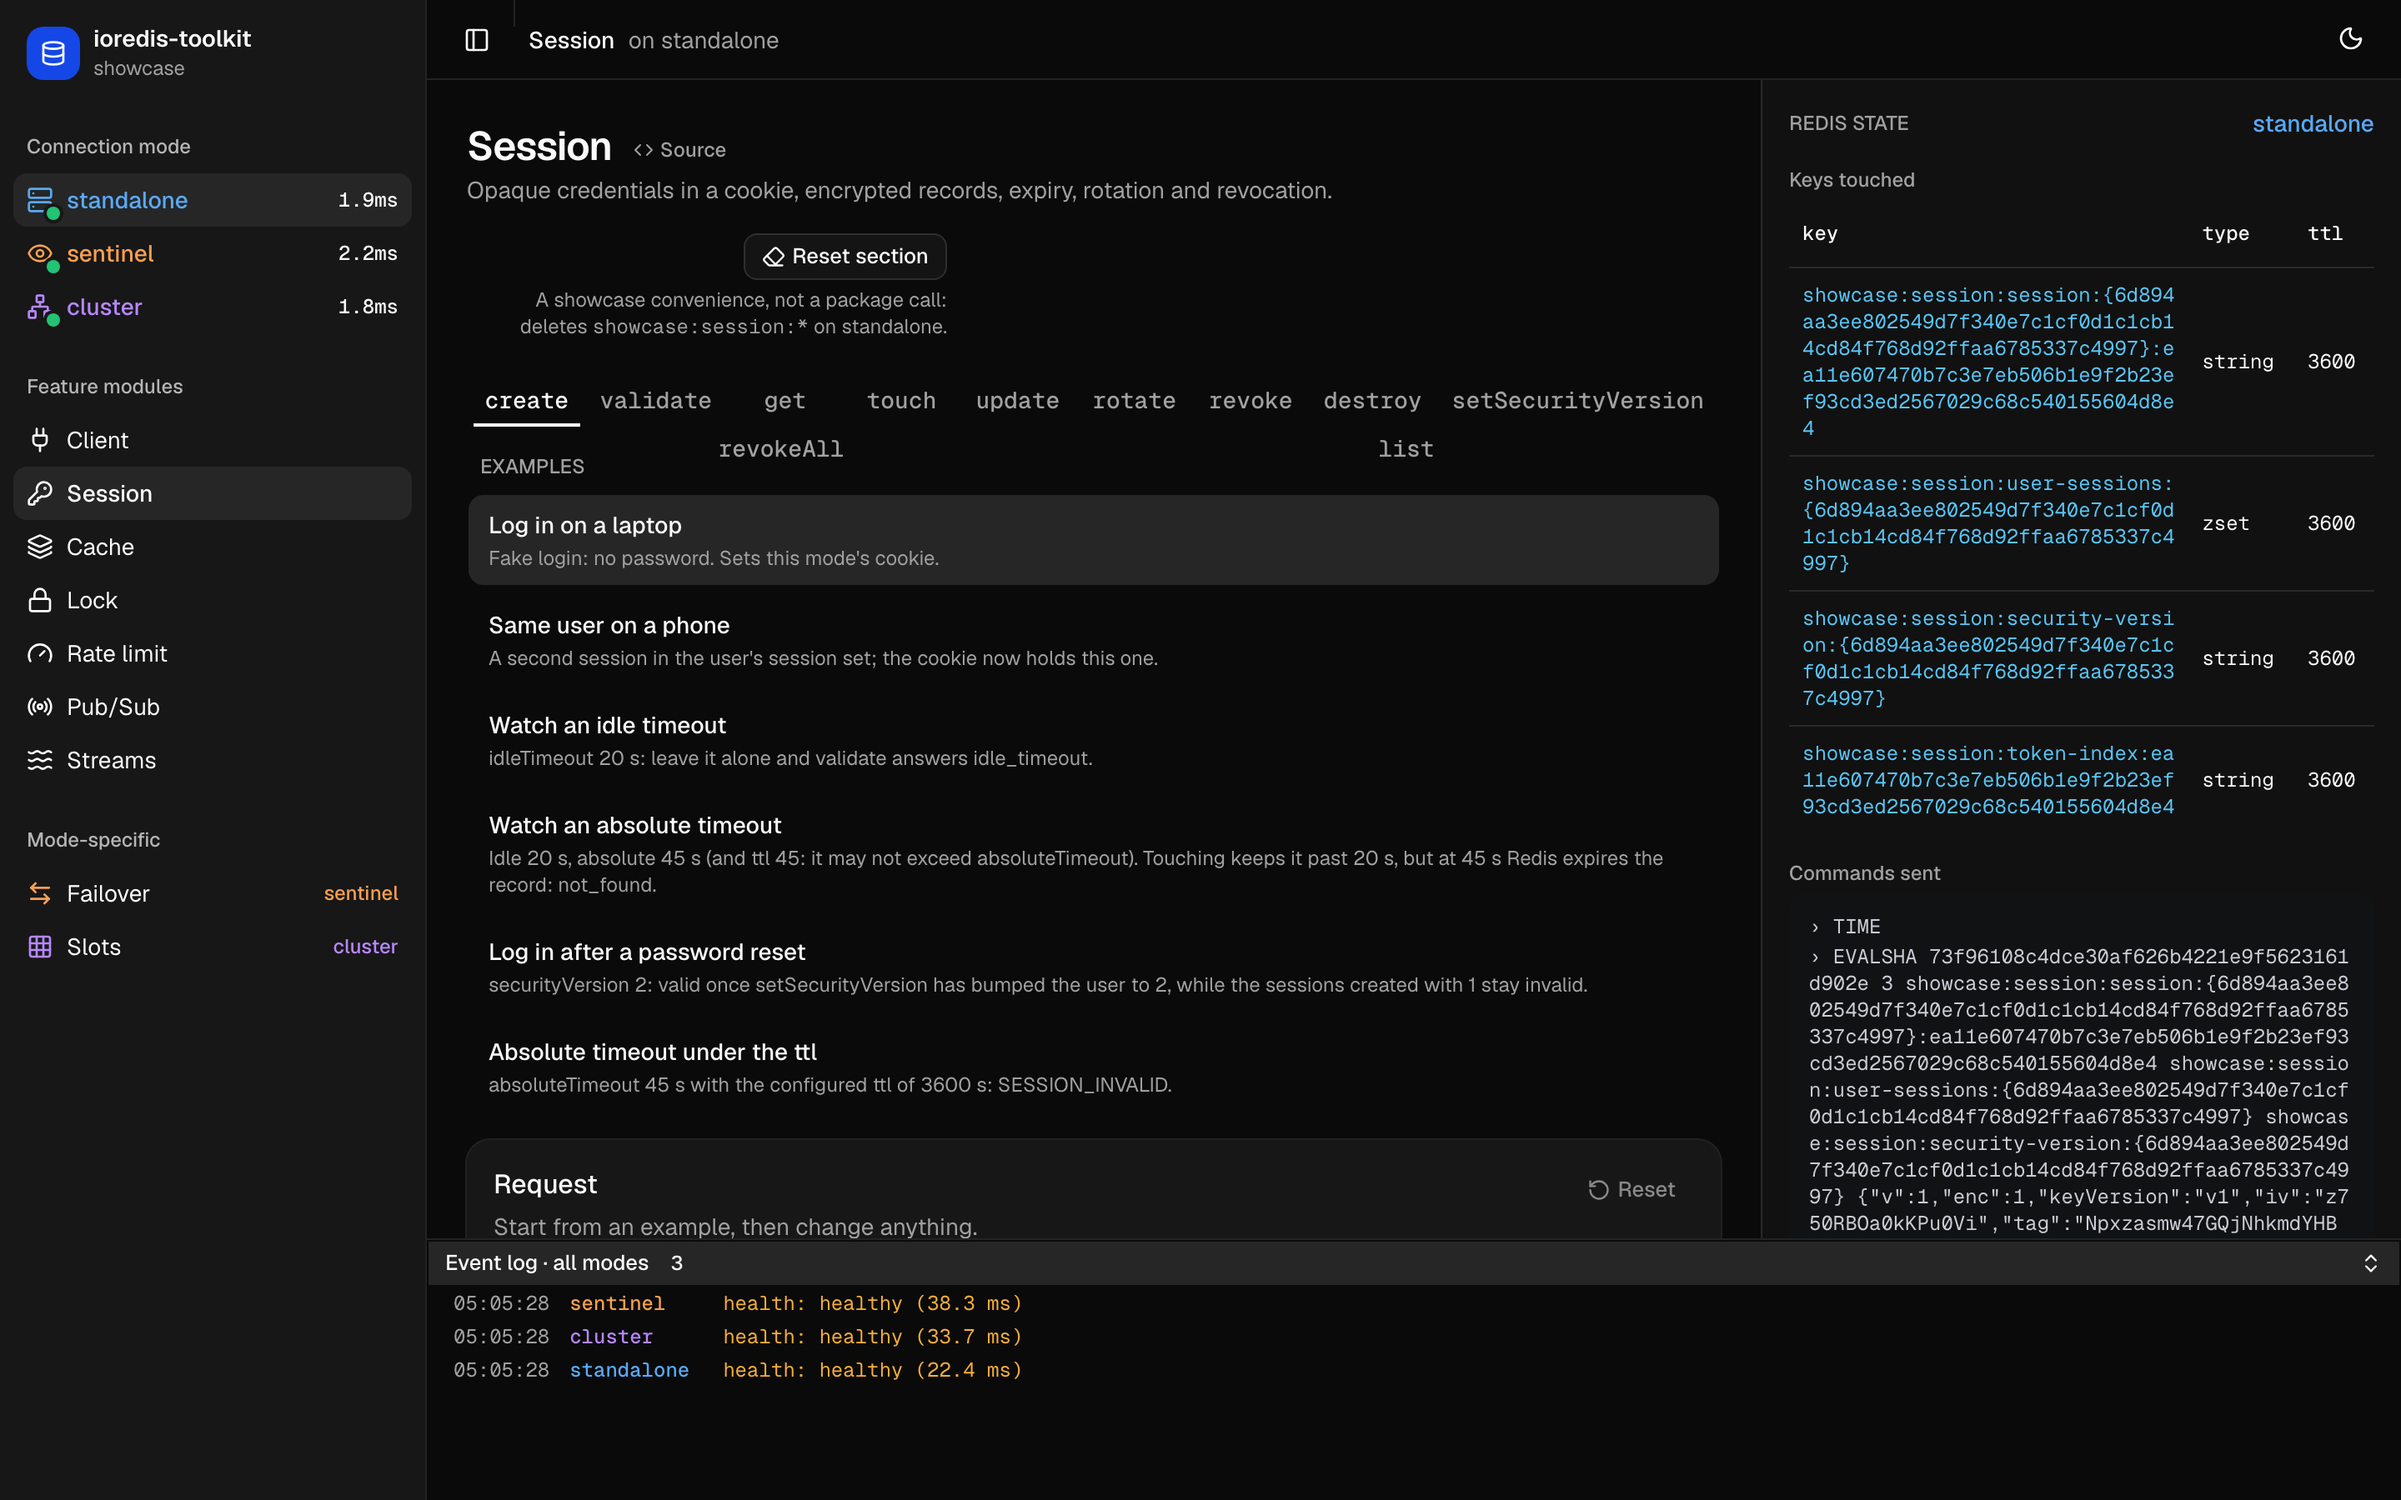
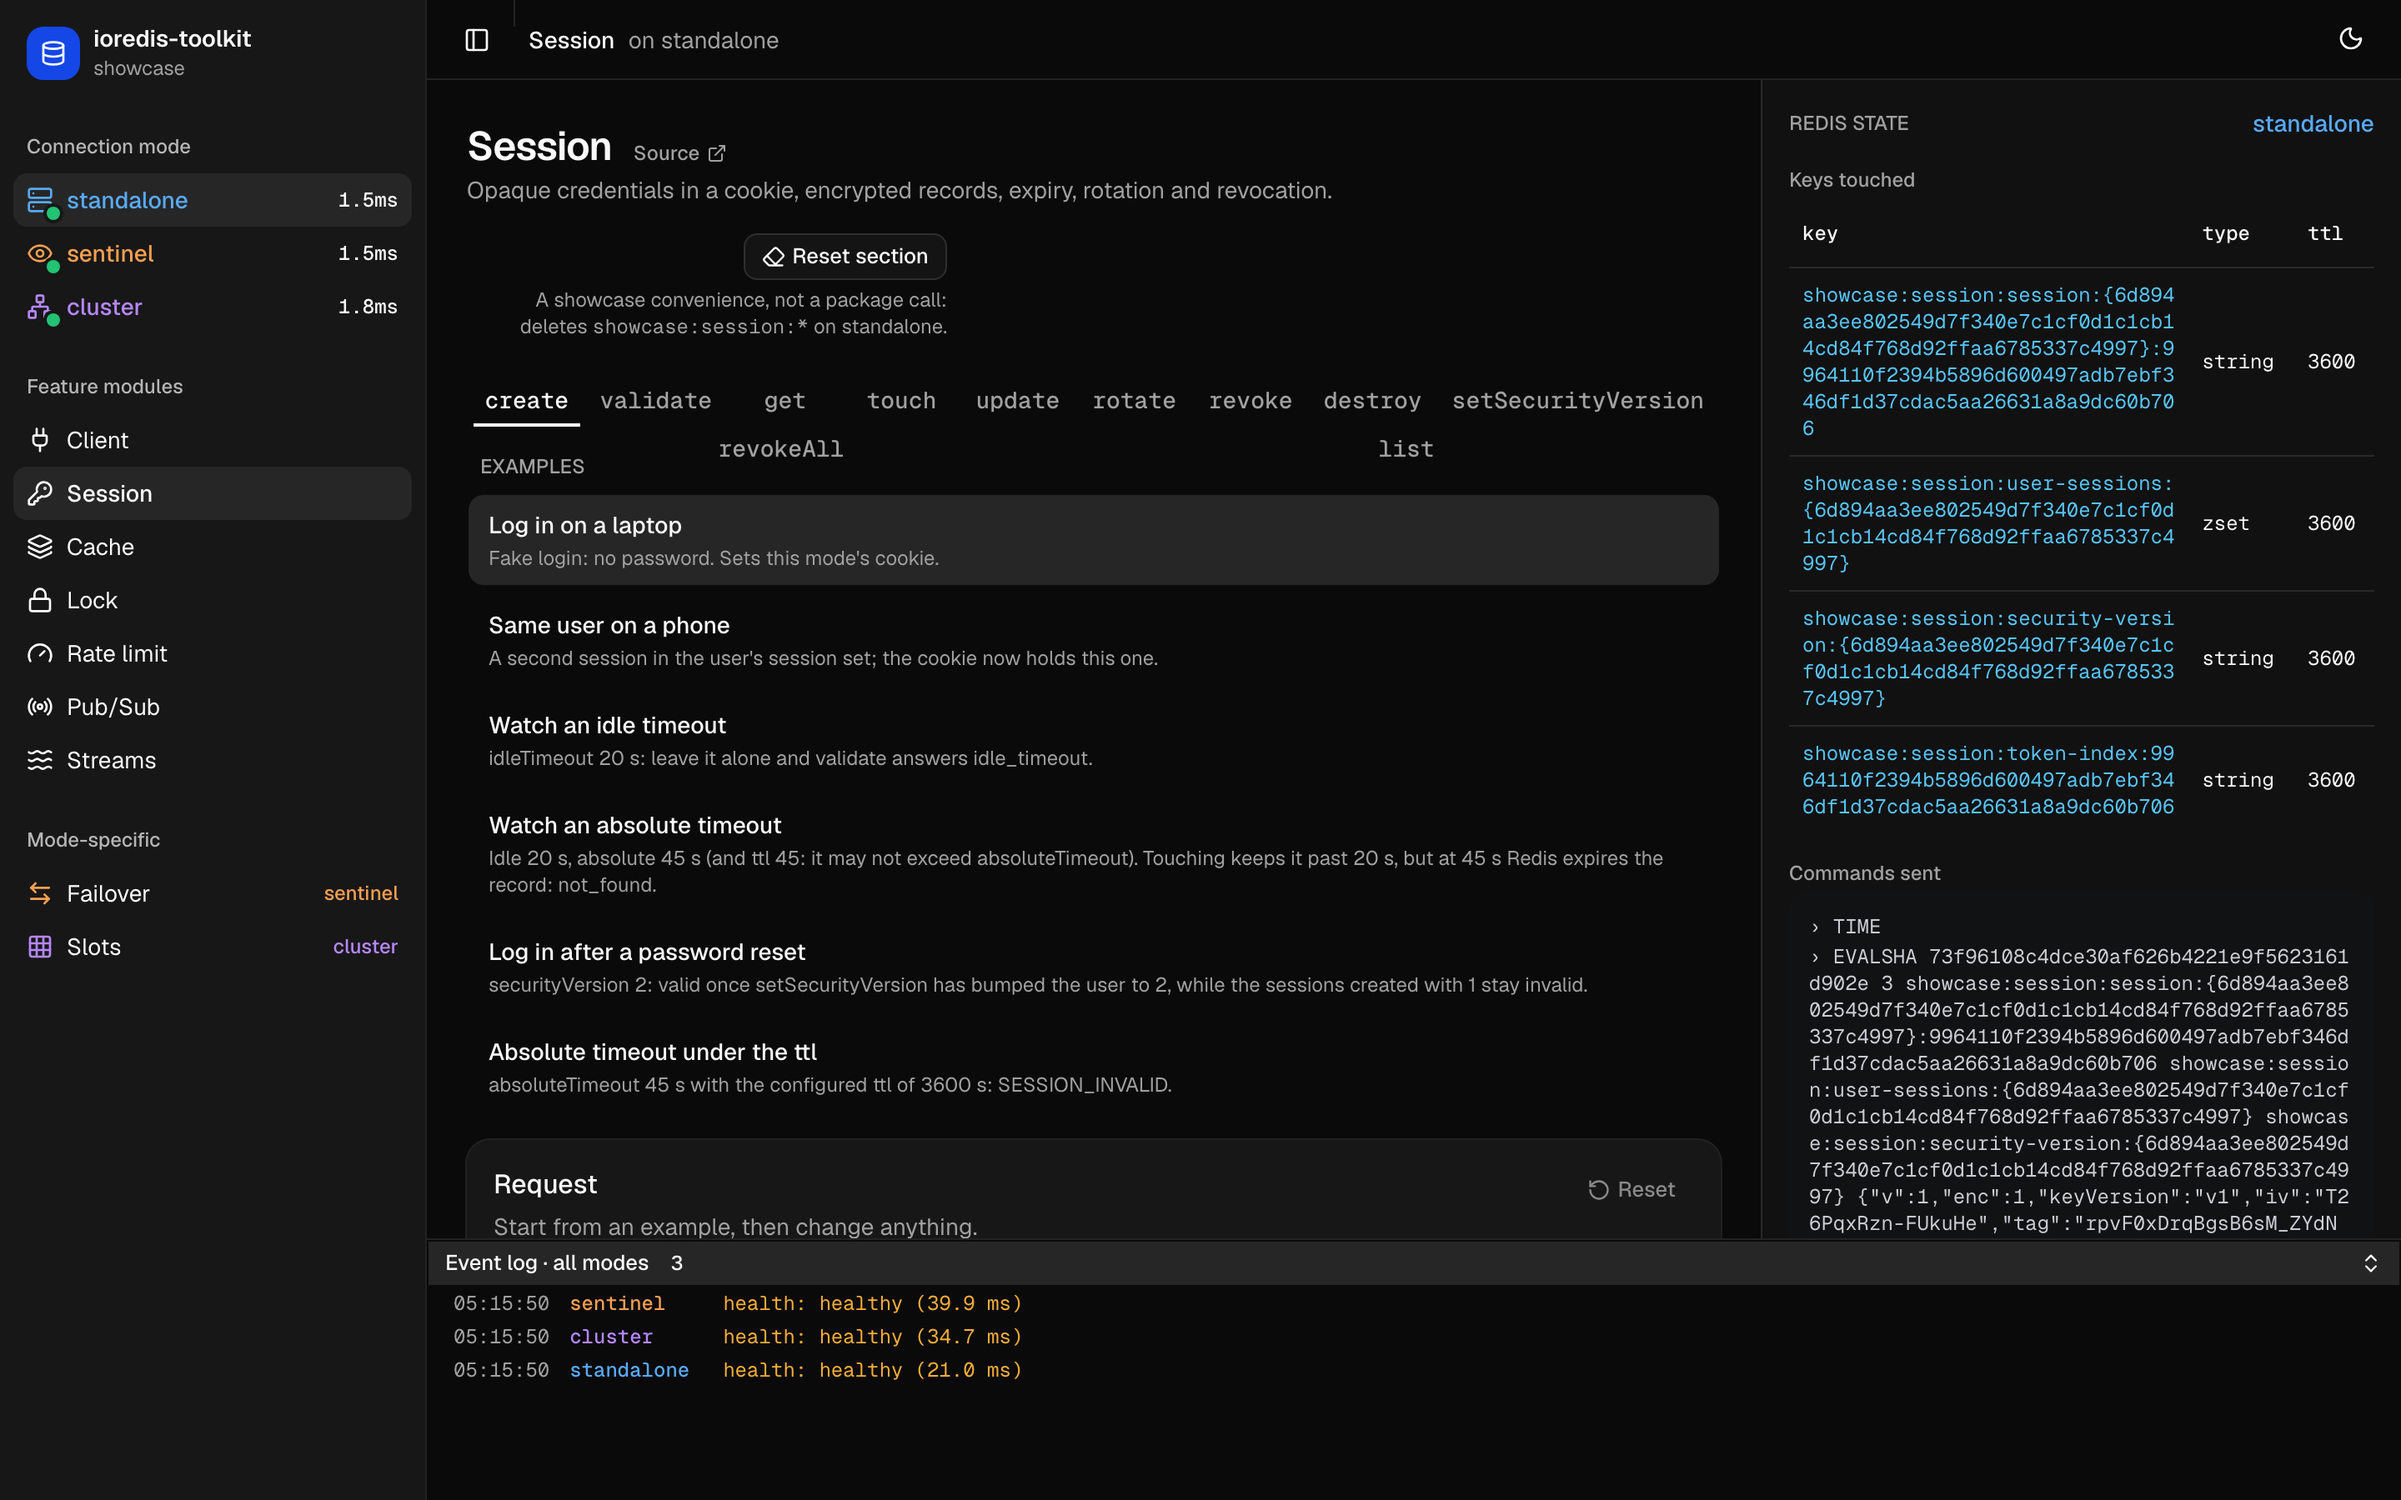
fix(readme): review findings: Reset section only where a section writes keys, a failover drill that reads right after the first, the Source link marks a new tab like the RedisInsight link

diff --git a/apps/frontend/components/showcase/showcase-shell.tsx b/apps/frontend/components/showcase/showcase-shell.tsx
@@ -2,7 +2,7 @@
 // opt-in compare across modes, a right-hand Redis-state panel and one collapsible event log for all modes.
 'use client';
 
-import { ChevronsUpDown, Code, Database, Eraser, Play } from 'lucide-react';
+import { ChevronsUpDown, Database, Eraser, ExternalLink, Play } from 'lucide-react';
 import { useSearchParams } from 'next/navigation';
 import { useState } from 'react';
 import { ThemeToggle } from '@/components/theme-toggle';
@@ -183,7 +183,7 @@ export function ShowcaseShell({ initialStatus }: { initialStatus: StatusResponse
                   <div className="flex items-baseline gap-3">
                     <h1 className="text-2xl font-semibold tracking-tight">{mod.label}</h1>
                     <Button variant="link" size="xs" className="h-auto px-0 text-muted-foreground" asChild>
-                      <a href={sourceUrl(mod.id)} target="_blank" rel="noreferrer"><Code /> Source</a>
+                      <a href={sourceUrl(mod)} target="_blank" rel="noreferrer">Source <ExternalLink /></a>
                     </Button>
                   </div>
                   <p className="text-sm text-muted-foreground">{mod.blurb}</p>

diff --git a/apps/frontend/lib/showcase/mock-backend.ts b/apps/frontend/lib/showcase/mock-backend.ts
@@ -60,9 +60,9 @@ export const MODULES: ShowcaseModule[] = [
     ops: [{ id: 'inspect', label: 'key inspector' }] },
 ];
 
-/** A module's backend plugin folder on GitHub (`main`), which the section header links as Source. */
-export const sourceUrl = (moduleId: string) =>
-  `https://github.com/org-utils/redis-session-kit-example/tree/main/apps/backend/src/modules/${moduleId}`;
+/** A module's backend folder on GitHub (`main`), which the section header links as Source. */
+export const sourceUrl = (mod: ShowcaseModule) =>
+  `https://github.com/org-utils/redis-session-kit-example/tree/main/apps/backend/src/modules/${mod.id}`;
 
 export const modeText: Record<Mode, string> = {
   standalone: 'text-mode-standalone', sentinel: 'text-mode-sentinel', cluster: 'text-mode-cluster',

diff --git a/README.md b/README.md
@@ -30,7 +30,7 @@ Each section runs real package calls on the connection mode you pick in the side
 | [Rate limit](http://localhost:3000/?module=rate-limit) | Atomic fixed-window counters | [`modules/rate-limit`](apps/backend/src/modules/rate-limit/) |
 | [Pub/Sub](http://localhost:3000/?module=pubsub) | JSON fan-out over a dedicated subscriber | [`modules/pubsub`](apps/backend/src/modules/pubsub/) |
 | [Streams](http://localhost:3000/?module=streams) | Append, consumer groups, reads, acks | [`modules/streams`](apps/backend/src/modules/streams/) |
-| [Failover](http://localhost:3000/?module=failover) (sentinel only) | A failover drill: move the master 6380 → 6381 while a workload runs, then check what survived | [`modules/failover`](apps/backend/src/modules/failover/) |
+| [Failover](http://localhost:3000/?module=failover) (sentinel only) | A failover drill: Sentinel promotes the replica while a workload runs, then the showcase checks what survived | [`modules/failover`](apps/backend/src/modules/failover/) |
 | [Slots](http://localhost:3000/?module=slots) (cluster only) | Key → hash slot → node, hash tags, cluster-aware fan-out | [`modules/slots`](apps/backend/src/modules/slots/) |
 
 ### Five-minute tour
@@ -38,7 +38,7 @@ Each section runs real package calls on the connection mode you pick in the side
 1. [**Session**](http://localhost:3000/?module=session): on `create`, run **Log in on a laptop**. On `rotate`, run **Rotate after privilege change**, then **Replay the old token**: the consumed predecessor is refused with `SessionReplayError` (401), and its successor stays active.
 2. [**Failover**](http://localhost:3000/?module=failover): pick **Graceful failover** and **Run drill**. Sentinel promotes the replica in about a second, and no call fails or reaches `onError`.
 3. [**Slots**](http://localhost:3000/?module=slots): compare **Related keys, no hash tag**, which scatter across slots and nodes, with **Same keys with a hash tag**, which share one slot.
-4. [**Rate limit**](http://localhost:3000/?module=rate-limit): on `burst`, run **Fill the window**: 15 consumes, 10 allowed and 5 denied with `retryAfterSeconds`.
+4. [**Rate limit**](http://localhost:3000/?module=rate-limit): on `burst`, run **Fill the window**: from an empty window, 15 consumes, 10 allowed and 5 denied with `retryAfterSeconds`.
 
 ## URLs and ports
 
@@ -61,7 +61,7 @@ Run from the repo root.
 - `pnpm redis:<mode>`: `redis-cli` inside that mode's stack, e.g. `pnpm redis:cluster GET showcase:cache:a`.
 - `pnpm test`, `pnpm typecheck`: the backend tests (against the running infra) and the typecheck of every package.
 
-To start over, `pnpm infra:down` wipes every mode; each section's **Reset section** button deletes just its own keys. [`infra/README.md`](infra/README.md) has the details.
+To start over, `pnpm infra:down` wipes every mode; the **Reset section** button on a section that writes keys deletes just that section's keys. [`infra/README.md`](infra/README.md) has the details.
 
 ## Configuration
 
